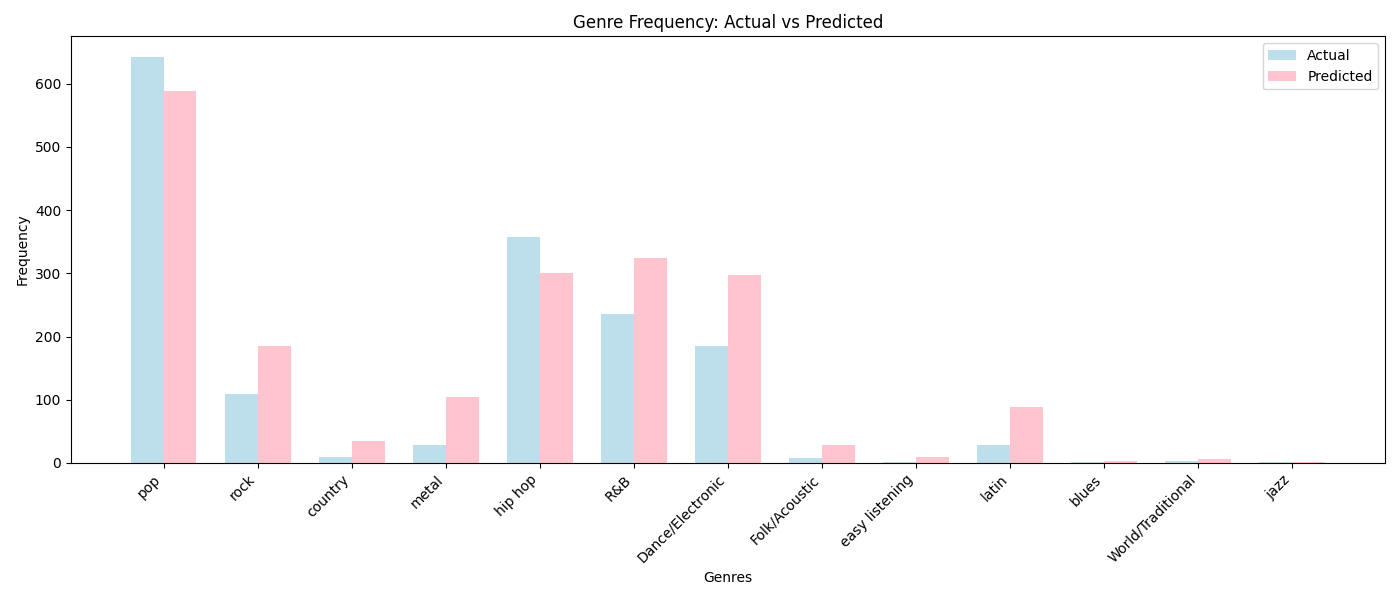
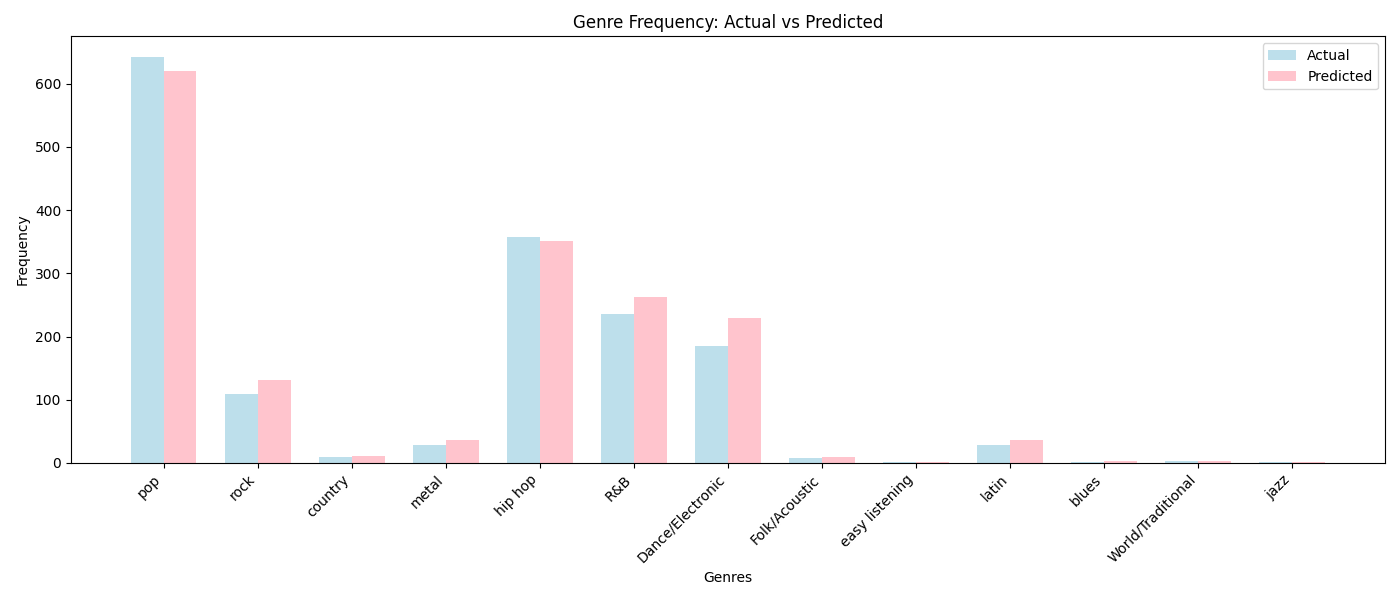
optimize svm

diff --git a/SVM.py b/SVM.py
@@ -6,7 +6,6 @@ from preprocessing import transform_data, preprocess_data, get_data
 from sklearn.metrics import accuracy_score, classification_report, confusion_matrix
 from sklearn.multioutput import MultiOutputClassifier
 import numpy as np
-import matplotlib.pyplot as plt
 
 
 # ... should this be added to preprocessing ?
@@ -30,32 +29,28 @@ def create_genre_vectors(songs_train, songs_test, df, genres):
 
 
 def run_svm(report=False, return_data=True):
-
     df = transform_data('songs.csv', 'genre')
-
-    X_train, X_test, _, _, songs_train, songs_test = get_data()  
+    X_train, X_val, X_test, _, _, _, songs_train, songs_val, songs_test = get_data()
 
     unique_genres = df['genre'].unique().tolist()
-
-    y_train, y_test = create_genre_vectors(
-        songs_train=songs_train,
-        songs_test=songs_test, 
-        df=df,
-        genres=unique_genres)
-
-
+    y_train, y_test = create_genre_vectors(songs_train, songs_test, df, unique_genres)
+    y_train_full, y_val = create_genre_vectors(songs_train, songs_val, df, unique_genres)
+    
     model = MultiOutputClassifier(SVC(
-        class_weight='balanced',
-            kernel='rbf',
-            gamma='scale',    # account for unbalanced data
-        random_state=42,), n_jobs=-1) # n_jobs=-1 trains all SVMs in parallel
-
-
-    model.fit(X_train, y_train)
-
+            class_weight='balanced', 
+            random_state=42, 
+            C=10,
+            gamma='scale',
+            kernel='rbf'), n_jobs=-1)
+    
+    X_train_full = np.vstack([X_train, X_val])
+    y_train_combined = np.vstack([y_train, y_val])
+    
+    model.fit(X_train_full, y_train_combined)
+    
     y_pred = model.predict(X_test)
 
-    if return_data==True:
+    if return_data == True:
         results = {
             'model': model,
             'y_test': y_test,
@@ -65,22 +60,21 @@ def run_svm(report=False, return_data=True):
             'X_test': X_test}
         
         pred_genres_dict = {}
-
         for i, song in enumerate(results['songs_test']):
             pred_genres = [results['genres'][j] for j, pred in enumerate(results['y_pred'][i]) if pred == 1]
             pred_genres_dict[song] = pred_genres
         
         if report == True:
-            classification_metric = classification_report(y_test, y_pred, target_names=unique_genres, output_dict=True)
-            print(classification_metric)
-            return results, pred_genres_dict, classification_metric
+            classification_metrics = classification_report(y_test, y_pred, target_names=unique_genres, output_dict=True, zero_division=0)
+            print(classification_metrics)
+            return results, pred_genres_dict, classification_metrics
         else:
             return results, pred_genres_dict
             
     
 def main():
     final_results = run_svm(report=True, return_data=True)
-    return final_results[1]
+    return final_results[1] #pred_genres_dict
     
 if __name__ == "__main__":
     print(main())

diff --git a/preprocessing.py b/preprocessing.py
@@ -43,13 +43,22 @@ def preprocess_data(X, y):
         X_scaled, y, songs, test_size=0.2, stratify=y, random_state=42
     )
 
-    return X_train, X_test, y_train, y_test, songs_train, songs_test
+    X_train, X_val, y_train, y_val, songs_train, songs_val = train_test_split(
+        X_test, y_test, songs_test, test_size=0.25, random_state=42
+    )  # 60% train, 20% val, 20% test
+
+    # return X_train, X_test, y_train, y_test, songs_train, songs_test
+    return X_train, X_val, X_test, y_train, y_val, y_test, songs_train, songs_val, songs_test
+
 
 def get_data():
     df_clean = transform_data('songs.csv', 'genre')
 
     df_clean['explicit'] = df_clean['explicit'].astype(int)
     df_clean['mode'] = df_clean['mode'].astype(int)
+
+    df_clean['mode'] = df_clean['mode'].astype(int)
+
 
 
     # print(df_clean.columns)
